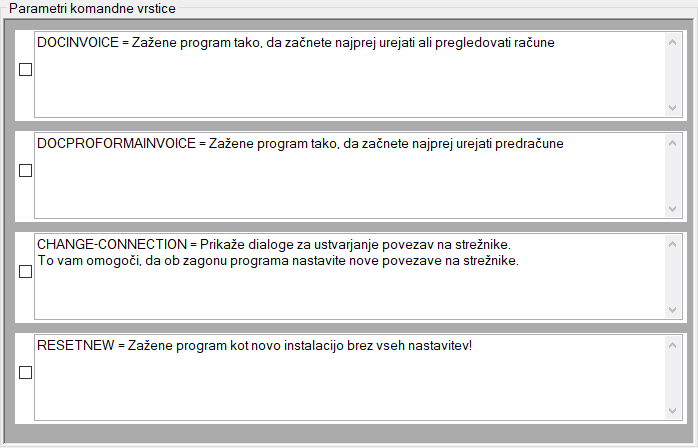
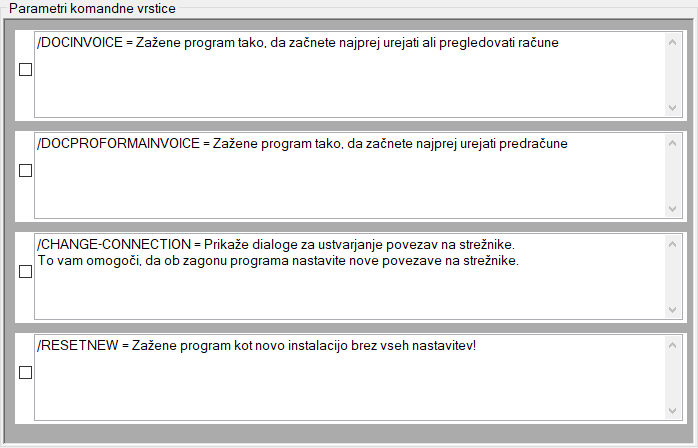
slo/CommandLineHelp/CommandLineHelp_Form.html first version created

diff --git a/V1_0_0_1/slo/CommandLineHelp/CommandLineHelp_Form.html b/V1_0_0_1/slo/CommandLineHelp/CommandLineHelp_Form.html
@@ -2,7 +2,7 @@
 <html>
   <head>
     <link rel="stylesheet" type="text/css" href="../style.css" />
-    <title>Pomoč za komandno vrstico</title>
+    <title>Nastavitev za pomoč in pomoč za komandno vrstico</title>
   </head>
   <body>
     <THeader>
@@ -54,7 +54,11 @@
     </THeader>
     <TControl name="CommandLineHelp_Form" imageincluded="1" link="" margin="4" heading="h1">
       <div class="Title">
-        <h1 class="Title" id="052d269c-a5cd-44ac-b026-f0b55f99c083">Pomoč za komandno vrstico</h1>
+        <h1 class="Title" id="052d269c-a5cd-44ac-b026-f0b55f99c083">Nastavitev za pomoč in pomoč za komandno vrstico</h1>
+        <div class="About">Dialog  spodaj na sliki se prikaže kadar program Tangenta.exe zaženemo v komandni vrstici ali bližnjici s parametrom "/?".
+Dialog nam v zgornjem delu omogoča, da spremenimo nastavitve dostopa do pomoči na internetu in mapo za pomoč na lokalnem računalniku,v drugem spodnjem delu prikazuje ostale delujoče parametre komandne vrstice
+
+</div>
         <img src="CommandLineHelp_Form.png" width="714" height="607" />
       </div>
       <TControl name="CommandLineHelp_Form.usrc_NavigationButtons1" imageincluded="1" link="" margin="4" heading="h2">
@@ -69,11 +73,33 @@
           <div class="Title">
             <h2 class="Title" id="b618c00c-0727-4d0f-b257-daa74144ab39">Nastavitev naslova za pomoč</h2>
             <img src="CommandLineHelp_Form_usrc_HelpSettings1_grp_HelpSettings.png" width="691" height="90" />
+            <div class="Description">Tangenta.exe privzeto prikazuje tako imenovano "online" pomoč na internetu, ki jo avtor programa po potrebi dopolnjuje in ažurira.
+V kolikor računalnik nima dostopa do pomoči na internetu, Tangenta.exe prikazuje lokalno shranjeno pomoč, ki se je namestila ob
+namestitvi programa.
+</div>
           </div>
-          <TControl name="CommandLineHelp_Form.usrc_HelpSettings1.grp_HelpSettings.lbl_RemoteURL" imageincluded="1" link="" margin="4" heading="h2" />
+          <TControl name="CommandLineHelp_Form.usrc_HelpSettings1.grp_HelpSettings.lbl_RemoteURL" imageincluded="1" link="CommandLineHelp_Form.usrc_HelpSettings1.grp_HelpSettings.txt_RemoteHelpURL" margin="4" heading="h2">
+            <div class="Title">
+              <h2 class="Title" id="46bf5ceb-05cd-4eb9-88b1-9ea8cff32375">Naslov pomoči na internetu</h2>
+              <img src="CommandLineHelp_Form_usrc_HelpSettings1_grp_HelpSettings_lbl_RemoteURL.png" width="689" height="29" />
+              <div class="Description">V tekstovnem polju vpišete URL naslov za pomoč Tangenta na internetu.</div>
+            </div>
+          </TControl>
           <TControl name="CommandLineHelp_Form.usrc_HelpSettings1.grp_HelpSettings.txt_RemoteHelpURL" imageincluded="1" link="" margin="4" heading="h2" />
           <TControl name="CommandLineHelp_Form.usrc_HelpSettings1.grp_HelpSettings.usrc_SelectLocalHelpFolder" imageincluded="1" link="" margin="4" heading="h2">
-            <TControl name="CommandLineHelp_Form.usrc_HelpSettings1.grp_HelpSettings.usrc_SelectLocalHelpFolder.label1" imageincluded="1" link="" margin="4" heading="h2" />
+            <TControl name="CommandLineHelp_Form.usrc_HelpSettings1.grp_HelpSettings.usrc_SelectLocalHelpFolder.label1" imageincluded="1" link="CommandLineHelp_Form.usrc_HelpSettings1.grp_HelpSettings.usrc_SelectLocalHelpFolder.txt_Folder" margin="4" heading="h2">
+              <div class="Title">
+                <h2 class="Title" id="376ac2c3-d662-4c0f-84b8-a0d0dc7ae541">Lokalna mapa za pomoč</h2>
+                <img src="CommandLineHelp_Form_usrc_HelpSettings1_grp_HelpSettings_usrc_SelectLocalHelpFolder_label1.png" width="620" height="28" />
+                <div class="Description">V tekstovno polje vpišene mapo (direktorij) kjer se nahaja lokalna pomoč.
+Program ob namestitvi v kolikor ne določite drugače, namesti program Tangenta v
+mapo C:\Program Files (x86)\Tangenta Invoice\ datoteke za pomoč pa v mapo C:\Program Files (x86)\Tangenta Invoice\Tangenta-Help\
+Mapo Tangenta-Help lahko premaknete ali skopirate tudi kam drugam v besedilnem polju pa vpišete nov pot (mapo).
+
+
+</div>
+              </div>
+            </TControl>
             <TControl name="CommandLineHelp_Form.usrc_HelpSettings1.grp_HelpSettings.usrc_SelectLocalHelpFolder.txt_Folder" imageincluded="1" link="" margin="4" heading="h2" />
             <TControl name="CommandLineHelp_Form.usrc_HelpSettings1.grp_HelpSettings.usrc_SelectLocalHelpFolder.btn_SelectFolder" imageincluded="1" link="" margin="4" heading="h2" />
           </TControl>
@@ -86,18 +112,55 @@
         </div>
         <TControl name="CommandLineHelp_Form.grp_CommandLineParameters.panel_Help" imageincluded="1" link="" margin="4" heading="h2">
           <TControl name="CommandLineHelp_Form.grp_CommandLineParameters.panel_Help.CommandLineHelp_ItemControl[0]" imageincluded="1" link="" margin="4" heading="h2">
+            <div class="Title">
+              <h2 class="Title" id="630e9eae-baab-4545-a975-00b69a591ef1">/DOCINVOICE</h2>
+              <img src="CommandLineHelp_Form_grp_CommandLineParameters_panel_Help_CommandLineHelp_ItemControl_0_.png" width="672" height="91" />
+              <div class="Description">S parametrom /DOCINVOICE dosežemo, da se Tangenta zažene v načinu urejanja računov
+V kolikor odkljukamo kvadratek na levi strani zgornje slike, se bo zagon Tangenta nadaljeval enako kot bi se v primeru, da smo program zagnali s parametrom
+/DOCINVOICE v komandni vrstici
+POZOR:  /DOCPROFORMAINVOICE in /DOCINVOICE ne moremo in je nesmiselno dokljukati oziroma navesti hkrati v komandni vrstici, saj program ne bo vedel v katerem načinu naj se zažene!
+
+</div>
+            </div>
             <TControl name="CommandLineHelp_Form.grp_CommandLineParameters.panel_Help.CommandLineHelp_ItemControl[0].txt_Help" imageincluded="1" link="" margin="4" heading="h2" />
             <TControl name="CommandLineHelp_Form.grp_CommandLineParameters.panel_Help.CommandLineHelp_ItemControl[0].chk_select" imageincluded="1" link="" margin="4" heading="h2" />
           </TControl>
           <TControl name="CommandLineHelp_Form.grp_CommandLineParameters.panel_Help.CommandLineHelp_ItemControl[1]" imageincluded="1" link="" margin="4" heading="h2">
+            <div class="Title">
+              <h2 class="Title" id="cb62902c-ae1e-4a11-851e-700c10fd8dfd">/DOCPROFORMAINVOICE</h2>
+              <img src="CommandLineHelp_Form_grp_CommandLineParameters_panel_Help_CommandLineHelp_ItemControl_1_.png" width="672" height="91" />
+              <div class="Description">S parametrom /DOCPROFORMAINVOICE dosežemo, da se Tangenta zažene v načinu urejanja ponudb oziroma predračunov
+V kolikor odkljukamo kvadratek na levi strani zgornje slike, se bo zagon Tangenta nadaljeval enako kot bi se v primeru, da smo program zagnali s parametrom
+/DOCPROFORMAINVOICE v komandni vrstici.<br></br>
+POZOR:  /DOCPROFORMAINVOICE in /DOCINVOICE ne moremo in je nesmiselno dokljukati oziroma navesti hkrati v komandni vrstici, saj program ne bo vedel v katerem načinu naj se zažene!
+
+</div>
+            </div>
             <TControl name="CommandLineHelp_Form.grp_CommandLineParameters.panel_Help.CommandLineHelp_ItemControl[1].txt_Help" imageincluded="1" link="" margin="4" heading="h2" />
             <TControl name="CommandLineHelp_Form.grp_CommandLineParameters.panel_Help.CommandLineHelp_ItemControl[1].chk_select" imageincluded="1" link="" margin="4" heading="h2" />
           </TControl>
           <TControl name="CommandLineHelp_Form.grp_CommandLineParameters.panel_Help.CommandLineHelp_ItemControl[2]" imageincluded="1" link="" margin="4" heading="h2">
+            <div class="Title">
+              <h2 class="Title" id="7f3a9c35-5d45-4325-8881-6ef03f099fec">/CHANGE-CONNECTION</h2>
+              <img src="CommandLineHelp_Form_grp_CommandLineParameters_panel_Help_CommandLineHelp_ItemControl_2_.png" width="672" height="91" />
+              <div class="Description">V kolikor že nastavljen program Tangenta zaženemo, se Tangenta poveže na podatkovno bazo na katero je bila povezana že prej.
+Povezavo programa Tangenta na drugo podatkovno bazo lahko naredimo tako ta program Tangenta v komandni vrstici ali bližnjici zaženomo
+s parametrom /CHANGE-CONNECTION oziroma odkljukamo kvadratek na levi strani. Tangenta bo v em primeru, prikazala ob zagonu dialog za nastavitev
+in povezavo na podatkovni strežnik in podatkovno bazo.
+</div>
+            </div>
             <TControl name="CommandLineHelp_Form.grp_CommandLineParameters.panel_Help.CommandLineHelp_ItemControl[2].txt_Help" imageincluded="1" link="" margin="4" heading="h2" />
             <TControl name="CommandLineHelp_Form.grp_CommandLineParameters.panel_Help.CommandLineHelp_ItemControl[2].chk_select" imageincluded="1" link="" margin="4" heading="h2" />
           </TControl>
           <TControl name="CommandLineHelp_Form.grp_CommandLineParameters.panel_Help.CommandLineHelp_ItemControl[3]" imageincluded="1" link="" margin="4" heading="h2">
+            <div class="Title">
+              <h2 class="Title" id="5811f4b6-005b-4949-93f2-47df899ee2f7">/RESETNEW</h2>
+              <img src="CommandLineHelp_Form_grp_CommandLineParameters_panel_Help_CommandLineHelp_ItemControl_3_.png" width="672" height="91" />
+              <div class="Description">Parameter /RESETNEW zbriše vse nastavitve programa TANGENTA!
+V kolikor program Tangenta zaženemo v komandni vrstici ali bližnjici s parametrom /RESETNEW se bo prikazal dialog
+kjer lahko odkljukamo katere vse nastavitve posameznih modulov se bodo zbrisale oziroma postavile na "tovraniško" začetno vrednost.
+Posledica zagona Tangente s parametrom /RESETNEW je da se bo izvedla ponovni začetni ("deviški") zagon programa.</div>
+            </div>
             <TControl name="CommandLineHelp_Form.grp_CommandLineParameters.panel_Help.CommandLineHelp_ItemControl[3].txt_Help" imageincluded="1" link="" margin="4" heading="h2" />
             <TControl name="CommandLineHelp_Form.grp_CommandLineParameters.panel_Help.CommandLineHelp_ItemControl[3].chk_select" imageincluded="1" link="" margin="4" heading="h2" />
           </TControl>

diff --git a/V1_0_0_1/slo/TIndex.css b/V1_0_0_1/slo/TIndex.css
@@ -50,9 +50,18 @@ body {
 		font-size: 100%;
 	}
 	
+	div.keyfeatures{
+		position: absolute;
+		top: 2px;
+		left: 430px;
+		font-size: 70%;
+		font-weight: bold;
+		text-align: center;
+	}	
+	
 	div.content1position {
 		position: absolute;
-		top: 20px;
+		top: 30px;
 		left: 140px;
 		font-size: 70%;
 		text-align: center;
@@ -60,7 +69,7 @@ body {
 	
 	div.content2position {
 		position: absolute;
-		top: 90px;
+		top: 100px;
 		left: 75px;
 		font-size: 70%;
 		text-align: center;
@@ -68,7 +77,7 @@ body {
 	
 	div.content3position {
 		position: absolute;
-		top: 140px;
+		top: 150px;
 		left: 30px;
 		font-size: 70%;
 		text-align: center;
@@ -76,7 +85,7 @@ body {
 
 	div.content4position {
 		position: absolute;
-		top: 200px;
+		top: 210px;
 		left: 30px;
 		font-size: 70%;
 		text-align: center;
@@ -84,7 +93,7 @@ body {
 	
 	div.content5position {
 		position: absolute;
-		top: 270px;
+		top: 280px;
 		left: 55px;
 		font-size: 70%;
 		text-align: center;
@@ -92,7 +101,7 @@ body {
 	
 	div.content6position {
 		position: absolute;
-		top: 300px;
+		top: 310px;
 		left: 125px;
 		font-size: 70%;
 		text-align: Left;
@@ -100,7 +109,7 @@ body {
 	
 	div.content7position {
 		position: absolute;
-		top: 360px;
+		top: 370px;
 		left: 158px;
 		font-size: 70%;
 		text-align: Left;

diff --git a/V1_0_0_1/slo/Tangenta.html b/V1_0_0_1/slo/Tangenta.html
@@ -1,6 +1,6 @@
-<!DOCTYPE html>
-<html lang="en-US">
+<html>
  <head>
+	<meta http-equiv='Content-Type' content='text/html;charset=UTF-8'/>
 	<link rel="stylesheet" 
 		 type="text/css" 
 		 href="TIndex.css" />
@@ -9,8 +9,11 @@
  <body>
      <div class="relative">
 		 <canvas id="TangentaLogo" width="300" height="500"></canvas>
-		 <div class = "title_position">TANGENTA ključne lastnosti</div>
+		 <div class = "title_position">TANGENTA</div>
 		 <div class="content">
+			 <div class="keyfeatures">
+			 Lastnosti
+			 </div>
 			 <div class="content1position">
 				Tangenta je odprtokodni program za prodajo dobrin in/ali storitev,<br> ki teče na vašem osebnem ali službenem računalniku in nikakor ne v oblaku,<br> kot nekateri drugi programi. Deluje tudi kot davčna blagajna.
 			 </div>

diff --git a/V1_0_0_1/slo/style.css b/V1_0_0_1/slo/style.css
@@ -108,6 +108,15 @@
         padding-bottom: 0.2cm;
 	}
 	
+	 div.Description{
+		color: #936b20;
+        font-size: 0.4cm;
+        padding-top: 0.2cm;
+        padding-left: 0.8cm;
+        padding-right: 0.5cm;
+        padding-bottom: 0.2cm;
+	}
+	
 	img {
         padding-top: 0.5cm;
         padding-left: 0.5cm;
